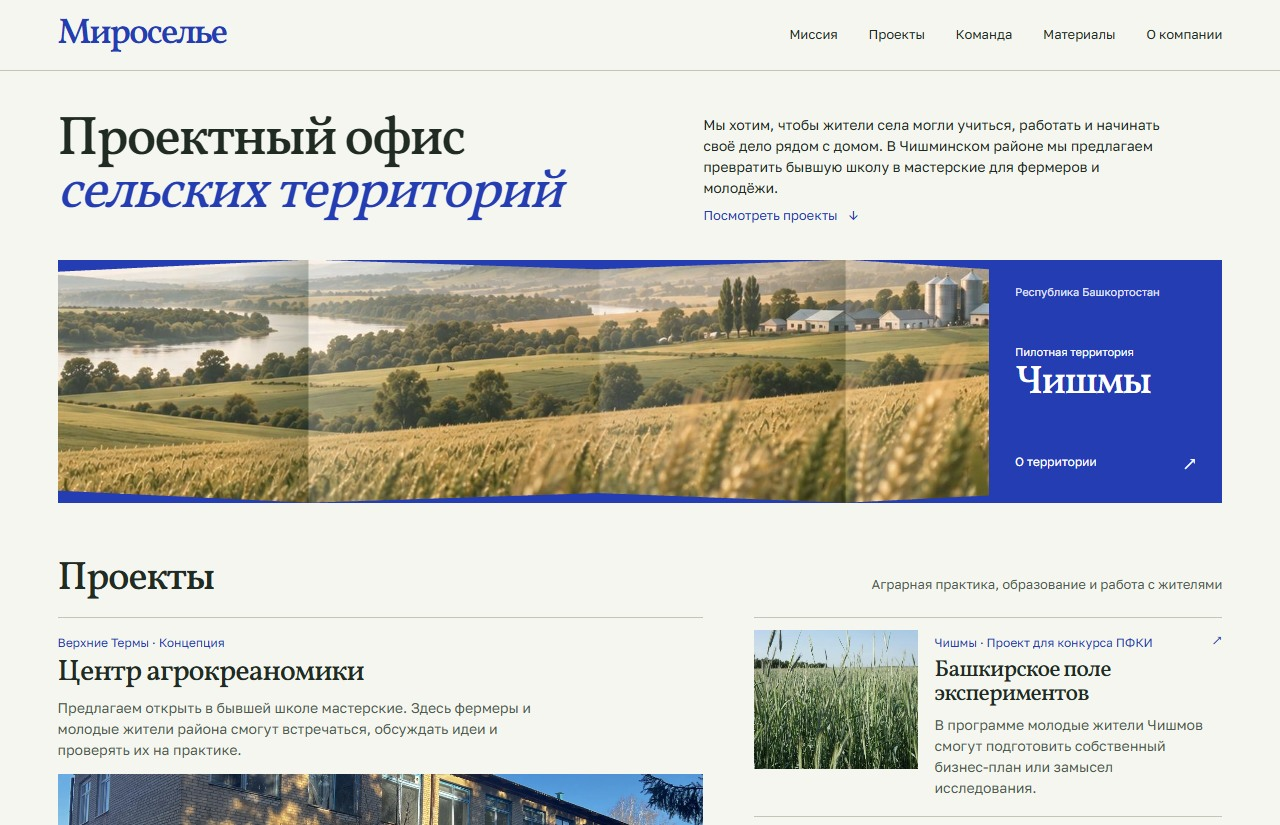
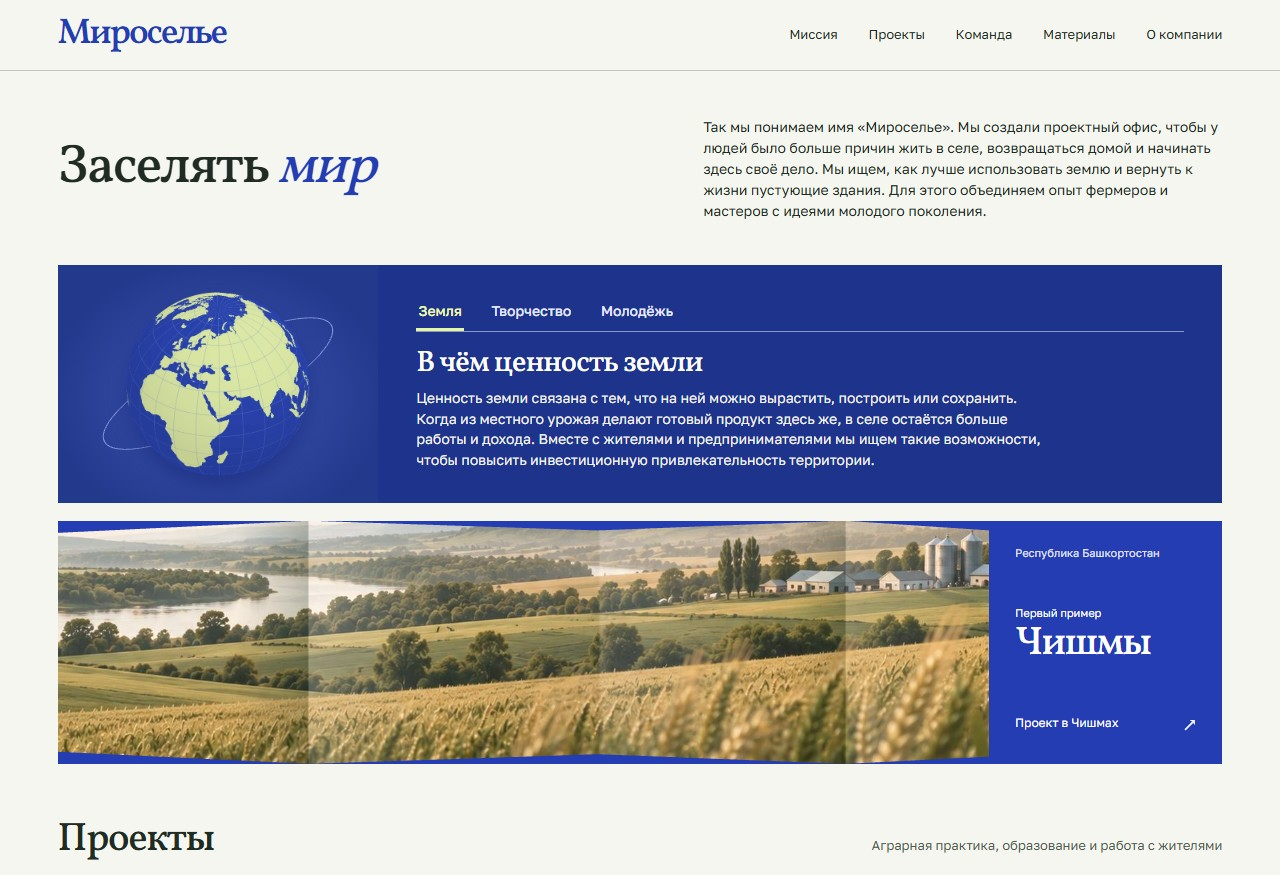
Миссия Мироселья, методика Урбаншколы и проект Живые улицы

diff --git a/index.html b/index.html
@@ -6,12 +6,14 @@
   <meta name="theme-color" content="#f6f7f2">
   <title>Мироселье · Проектный офис сельских территорий Башкортостана</title>
   <link rel="stylesheet" href="design/atlas-office.css">
-  <meta name="description" content="ООО «Мироселье» разрабатывает проекты для сельских территорий Башкортостана. Центр агрокреаномики в Верхних Термах, молодёжная программа в Чишмах и Урбаншкола.">
+  <link rel="stylesheet" href="mission.css">
+  <script defer src="mission.js"></script>
+  <meta name="description" content="Миссия «Мироселья» — заселять мир. Развитие сельских территорий через новые возможности для земли, креативные индустрии и работу с молодым поколением.">
   <link rel="canonical" href="https://lignatus.github.io/miroselye/">
   <meta property="og:type" content="website">
   <meta property="og:locale" content="ru_RU">
   <meta property="og:title" content="Мироселье · Проектный офис сельских территорий">
-  <meta property="og:description" content="Сельские территории Башкортостана. Идеи, люди и проекты Чишминского района.">
+  <meta property="og:description" content="Сельские территории, творческие профессии и новое поколение местных авторов. Проекты в Башкортостане.">
   <meta property="og:image" content="https://lignatus.github.io/miroselye/design/fields-sunset.webp">
   <script>
     function openPreviousSection() {
@@ -34,17 +36,29 @@
   </header>
   <main>
     <section class="cover" id="mission" aria-labelledby="mission-title">
-      <div class="cover-copy">
-        <h1 id="mission-title">Проектный офис<br><em>сельских территорий</em></h1>
-        <p>Мы хотим, чтобы жители села могли учиться, работать и начинать своё дело рядом с домом. В Чишминском районе мы предлагаем превратить бывшую школу в мастерские для фермеров и молодёжи.</p>
-        <a class="action" href="#projects">Посмотреть проекты <span aria-hidden="true">↓</span></a>
+      <div class="cover-copy mission-heading">
+        <h1 id="mission-title">Заселять <em>мир</em></h1>
+        <p>Так мы понимаем имя «Мироселье». Мы создали проектный офис, чтобы у людей было больше причин жить в селе, возвращаться домой и начинать здесь своё дело. Мы ищем, как лучше использовать землю и вернуть к жизни пустующие здания. Для этого объединяем опыт фермеров и мастеров с идеями молодого поколения.</p>
+      </div>
+      <div class="mission-atlas" data-mission>
+        <div class="mission-globe" aria-hidden="true"><img src="assets/mission-earth.webp" width="480" height="480" alt=""><span class="orbit"></span></div>
+        <div class="mission-leaves">
+          <div class="mission-choices" hidden aria-label="Подход Мироселья">
+            <button id="tab-earth" aria-controls="leaf-earth" type="button">Земля</button>
+            <button id="tab-craft" aria-controls="leaf-craft" type="button">Творчество</button>
+            <button id="tab-youth" aria-controls="leaf-youth" type="button">Молодёжь</button>
+          </div>
+          <article id="leaf-earth" data-globe="earth"><h2>В чём ценность земли</h2><p>Ценность земли связана с тем, что на ней можно вырастить, построить или сохранить. Когда из местного урожая делают готовый продукт здесь же, в селе остаётся больше работы и дохода. Вместе с жителями и предпринимателями мы ищем такие возможности, чтобы повысить инвестиционную привлекательность территории.</p></article>
+          <article id="leaf-craft" data-globe="craft"><h2>Креативные индустрии на селе</h2><p>У фермера есть продукт и знание своей земли. Дизайнер может помочь ему представить этот продукт покупателям, а ремесленник придумать, что сделать из местного сырья. Так к сельскому хозяйству добавляются новые профессии, у людей появляется больше способов зарабатывать дома.</p></article>
+          <article id="leaf-youth" data-globe="youth"><h2>Как найти своё дело рядом с домом</h2><p>Работая с молодёжью, мы начинаем с того, что ребятам интересно самим. Они могут начертить карту посёлка, предложить идею для хозяйства, обсудить её с фермером и посчитать затраты. Такой опыт помогает понять, где в родном районе пригодятся их способности.</p></article>
+        </div>
       </div>
       <figure class="land">
         <div class="foldout">
           <img src="design/fields-panorama.webp" alt="Панорама полей и реки из концепции пилотной территории Чишминского района" width="1672" height="341" fetchpriority="high">
           <span class="folds" aria-hidden="true"></span>
         </div>
-        <figcaption><span>Республика Башкортостан</span><div><small>Пилотная территория</small><b>Чишмы</b></div><a href="territory.html">О территории <span aria-hidden="true">↗</span></a></figcaption>
+        <figcaption><span>Республика Башкортостан</span><div><small>Первый пример</small><b>Чишмы</b></div><a href="territory.html">Проект в Чишмах <span aria-hidden="true">↗</span></a></figcaption>
       </figure>
     </section>
     <section id="projects" class="projects page-section">
@@ -62,7 +76,8 @@
         </article>
         <div class="sibling-projects">
           <a class="project side-project" href="program.html"><img src="assets/field.webp" alt=""><div class="project-info"><span>Чишмы · Проект для конкурса ПФКИ</span><h3>Башкирское поле экспериментов</h3><p>В программе молодые жители Чишмов смогут подготовить собственный бизнес-план или замысел исследования.</p><i aria-hidden="true">↗</i></div></a>
-          <a class="project side-project" href="urbanschool.html"><img src="assets/urban-game.webp" alt=""><div class="project-info"><span>Уфа · Практика в лицее № 136</span><h3>Урбаншкола</h3><p>Семиклассники уфимского лицея обсудили застройку Сипайлово в формате городских слушаний.</p><i aria-hidden="true">↗</i></div></a>
+          <a class="project side-project urban-method-card" href="urbanschool.html"><img src="assets/urban-method-tile.webp" alt="Урбаншкола Уфа"><div class="project-info"><span>Уфа · Методика развития пространственного мышления</span><h3>Урбаншкола</h3><p>Школьники рисуют карты по памяти, сравнивают маршруты и обсуждают, как меняется знакомое место.</p><i aria-hidden="true">↗</i></div></a>
+          <a class="project side-project" href="living-streets.html"><img src="assets/streets-barn.webp" alt="Общественный амбар в концепции посёлка"><div class="project-info"><span>Кушнаренковский район · Предварительная концепция</span><h3>Живые улицы</h3><p>Концепция ремесленного посёлка. Дом и мастерская выходят на одну улицу, а в общем амбаре можно проводить ярмарки.</p><i aria-hidden="true">↗</i></div></a>
         </div>
       </div>
     </section>
@@ -73,22 +88,12 @@
         <article><h3>Куратор программ</h3><p>Готовит занятия и приглашает наставников для молодёжных команд.</p></article>
       </div>
     </section>
-    <section id="library" class="library page-section">
-      <div><h2>Материалы</h2><p>Концепция территории и документы молодёжной программы.</p></div>
-      <div class="files">
-        <a href="materials/koncepcia.pdf"><span class="book"><img src="assets/covers/koncepcia.webp" alt=""></span><strong>Пилотная территория «Чишмы»</strong><small>Концепция · PDF ↗</small></a>
-        <a href="materials/annotation.pdf"><span class="book"><img src="assets/covers/annotation.webp" alt=""></span><strong>Программа на одной странице</strong><small>Аннотация · PDF ↗</small></a>
-        <a href="materials/presentation.pdf"><span class="book"><img src="assets/covers/presentation.webp" alt=""></span><strong>Башкирское поле экспериментов</strong><small>Презентация · PDF ↗</small></a>
-        <a href="materials/programma.pdf"><span class="book"><img src="assets/covers/programma.webp" alt=""></span><strong>Полное описание программы</strong><small>Проект · PDF ↗</small></a>
-      </div>
+    <section id="library" class="library page-section method-library">
+      <div class="method-heading"><h2>Методические материалы</h2><p>Как устроена молодёжная программа по агрокреаномике</p></div>
+      <a class="method-document" href="materials/presentation.pdf"><img src="assets/covers/presentation.webp" alt="Обложка презентации «Башкирское поле экспериментов»"><div><span>Презентация программы · PDF</span><h3>Башкирское поле экспериментов</h3><p>От знакомства с аграрной наукой и хозяйствами района до собственного бизнес-плана или замысла исследования.</p><strong>Открыть презентацию ↗</strong></div></a>
     </section>
     <section id="company" class="company page-section"><div><h2>О компании</h2><p>Реквизиты ООО «Мироселье»</p></div><dl><div><dt>Наименование</dt><dd>ООО «Мироселье»</dd></div><div><dt>ИНН</dt><dd>0276185285</dd></div><div><dt>ОГРН</dt><dd>1250200037230</dd></div><div><dt>Электронная почта</dt><dd><a href="mailto:miroselye@mail.ru">miroselye@mail.ru</a></dd></div></dl></section>
   </main>
   <footer><a class="wordmark" href="#top">Мироселье</a><a href="mailto:miroselye@mail.ru">Написать в проектный офис ↗</a></footer>
 </body>
 </html>
-
-
-
-
-

diff --git a/urbanschool.html b/urbanschool.html
@@ -10,7 +10,7 @@
 
   <meta name="theme-color" content="#f6f4e9">
 
-  <title>Урбаншкола | Мироселье</title>
+  <title>Урбаншкола · Методика развития пространственного мышления | Мироселье</title>
 
   <link rel="stylesheet" href="site.css"><link rel="stylesheet" href="land.css">
 
@@ -35,10 +35,11 @@
     </div>
   </header>
 
-  <main id="main"><div class="wrap"><a class="crumb" href="index.html#projects">← Проекты</a><section class="urban-head"><div><h1>Урбаншкола</h1><p>Как договориться о будущем места, если у каждого на него свои планы?</p></div><figure><img src="assets/urban-game.webp" alt="Игровое поле с рекой Белой, старой фабрикой, деревянным домом и липовой рощей"><figcaption>Учебная игра «Квартал у Белой»</figcaption></figure></section><section class="spread"><h2>Территория глазами жителей</h2><div><p class="standfirst">Урбаншкола учит читать карту, наблюдать за привычным местом и обсуждать, что в нём стоит изменить.</p><p>Например, ребята рисуют район по памяти. Затем сравнивают карты и ищут три места, которые заметили почти все, и три места, которые запомнились только одному человеку.</p><p>В уфимской адаптации курса три темы. Ребята сначала исследуют пространство вокруг себя, затем выясняют, кто пользуется общими местами и отвечает за них. Наконец пробуют договориться о будущем целого квартала.</p></div></section><section class="spread"><h2>Квартал у Белой</h2><div><p>На игровом поле рядом с рекой стоят старая фабрика и деревянный дом, растёт липовая роща. Команда выбирает, где разместить жильё и что оставить свободным. Участок у проспекта шумный, а берегом пользуются все. Каждое решение приходится объяснять с учётом этих условий.</p><p>В другой игре участники проводят слушания о будущем кинотеатра «Курай». Они представляют разные интересы и записывают условия, на которых готовы договориться.</p></div></section><section class="spread"><h2>Слушания в уфимском лицее</h2><div><p class="standfirst">Команда «Мироселья» провела деловую игру для семиклассников Башкирского лицея № 136 имени М. Искужина в Уфе.</p><p>В рамках «Школы юного предпринимателя» ребята обсуждали застройку Сипайлово. Занятие прошло в формате городских слушаний.</p><p><a href="https://vk.ru/wall-22432886_1956">Публикация лицея ↗</a></p></div></section><section class="spread"><h2>Из города в село</h2><div><p>Эти вопросы важны и для Верхних Терм. Кто будет приходить в мастерские? Как жители пользуются двором бывшей школы сегодня? Что стоит сохранить, если у здания появится новая жизнь? С такого разговора можно начинать работу над сельской территорией.</p><p><a href="territory.html">Посмотреть концепцию центра в Верхних Термах ↗</a></p></div></section></div></main><footer class="atlas-footer"><div class="wrap"><a href="index.html" class="atlas-wordmark">Мироселье</a><a href="index.html#projects">Все проекты ↗</a><a href="#top">Наверх ↑</a></div></footer>
+  <main id="main"><div class="wrap"><a class="crumb" href="index.html#projects">← Проекты</a><section class="urban-head"><div><h1>Урбаншкола</h1><p>Методика развития пространственного мышления для школьников от 9 до 17 лет.</p></div><figure><img src="assets/urban-method.webp" width="1040" height="510" style="height:auto" alt="Надпись «Урбаншкола Уфа» и пиктограммы с обложки курса"></figure></section><section class="spread"><h2>Территория глазами жителей</h2><div><p class="standfirst">Урбаншкола учит видеть, как устроен знакомый район. На занятиях ребята восстанавливают по памяти свои маршруты, находят ориентиры и выясняют, что в одном и том же дворе важно разным людям.</p><p>Например, ребята рисуют район по памяти. Затем сравнивают карты и ищут три места, которые заметили почти все, и три места, которые запомнились только одному человеку.</p><p>Уфимский курс создан по мотивам венской методики «Was schafft Raum?». В нём 31 занятие и две учебные игры. Ребята сначала исследуют пространство вокруг себя, затем выясняют, кто пользуется общими местами и отвечает за них. На заключительных занятиях они обсуждают, как жители участвуют в решениях о будущем района.</p></div></section><section class="spread"><h2>Слушания в уфимском лицее</h2><div><p class="standfirst">Команда «Мироселья» провела деловую игру для семиклассников Башкирского лицея № 136 имени М. Искужина в Уфе.</p><p>В рамках «Школы юного предпринимателя» ребята обсуждали застройку Сипайлово. Занятие прошло в формате городских слушаний.</p><p><a href="https://vk.ru/wall-22432886_1956">Публикация лицея ↗</a></p></div></section><section class="spread"><h2>Из города в село</h2><div><p>Эти вопросы важны и для Верхних Терм. Кто будет приходить в мастерские? Как жители пользуются двором бывшей школы сегодня? Что стоит сохранить, если у здания появится новая жизнь? С такого разговора можно начинать работу над сельской территорией.</p><p><a href="territory.html">Посмотреть концепцию центра в Верхних Термах ↗</a></p></div></section></div></main><footer class="atlas-footer"><div class="wrap"><a href="index.html" class="atlas-wordmark">Мироселье</a><a href="index.html#projects">Все проекты ↗</a><a href="#top">Наверх ↑</a></div></footer>
 
 </body>
 
 </html>
+
 
 

diff --git a/living-streets.html b/living-streets.html
@@ -1,0 +1,73 @@
+<!doctype html>
+
+<html lang="ru">
+
+<head>
+
+  <meta charset="utf-8">
+
+  <meta name="viewport" content="width=device-width, initial-scale=1">
+
+  <meta name="theme-color" content="#f6f4e9">
+
+  <title>Живые улицы · Ремесленный посёлок | Мироселье</title>
+
+  <link rel="stylesheet" href="site.css">
+
+  <link rel="stylesheet" href="atlas-interior.css">
+
+</head>
+
+<body id="top">
+
+  <a class="skip" href="#main">К содержанию</a>
+
+  <header class="atlas-header">
+    <div class="atlas-header-inner">
+      <a class="atlas-wordmark" href="index.html" aria-label="Мироселье, на главную">Мироселье</a>
+      <nav aria-label="Разделы проектного офиса">
+        <a href="index.html#mission">Миссия</a>
+        <a href="index.html#projects">Проекты</a>
+        <a href="index.html#team">Команда</a>
+        <a href="index.html#library">Материалы</a>
+        <a href="index.html#company">О компании</a>
+      </nav>
+    </div>
+  </header>
+
+  <main id="main" class="article wrap">
+  <a class="crumb" href="index.html#projects">← Все проекты</a>
+  <header class="article-head">
+    <div class="atlas-intro-copy">
+      <h1>Живые улицы</h1>
+      <p>«Мироселье» предлагает создать в Кушнаренковском районе Башкортостана ремесленный посёлок. В предварительном мастер-плане 2026 года дома соседствуют с мастерскими, а площадь и общественный амбар образуют центр посёлка.</p>
+      <span class="stamp">Старокамышлинский сельсовет · Предварительная концепция</span>
+    </div>
+    <img class="atlas-intro-image" src="assets/streets-barn.webp" alt="Проектный эскиз деревянного амбара с торговыми рядами и террасой" width="1320" height="985">
+  </header>
+  <section class="spread">
+    <h2>Место для своего дела</h2>
+    <div><p class="standfirst">Посёлок задуман вокруг ремесленной улицы. Здесь мастер может работать рядом с домом, показать, как сделана вещь, и продать её гостям.</p>
+    <p>Для посёлка предложены жилая слобода, ремесленные и гостевые ряды. Их связывают пешеходные маршруты между сквером, площадью и амбаром. По выходным часть территории может стать местом для рынка, где жители представят свою продукцию.</p></div>
+  </section>
+  <section class="gallery-section">
+    <h2>Как устроен посёлок</h2>
+    <p class="gallery-intro">На плане между Ильмурзино и Старыми Камышлами предусмотрены жилые улицы, общественный сад и прогулочные дорожки у воды. Среди вариантов застройки есть небольшие дома с отдельным входом со стороны ремесленной улицы.</p>
+    <div class="photos">
+      <figure><img src="assets/streets-plan.webp" alt="План жилых улиц, пешеходных дорожек и зелёной зоны вокруг водоёма" loading="lazy" width="1024" height="1024" style="height:auto;aspect-ratio:auto;object-fit:contain"><figcaption>Проектное предложение по планировке посёлка</figcaption></figure>
+      <figure><img src="assets/streets-workshop.webp" alt="Объём с двускатной кровлей и крытой площадкой перед входом" loading="lazy" width="1010" height="673" style="height:auto;aspect-ratio:auto"><figcaption>Один из вариантов застройки ремесленной улицы</figcaption></figure>
+    </div>
+  </section>
+  <section class="spread">
+    <h2>Общий амбар</h2>
+    <div><p class="standfirst">Главным местом встречи авторы предлагают сделать амбар. В центре ремесленного посёлка это общественное здание с площадью перед входом.</p><p>В тёплое время события смогут выходить из здания на площадь. Поблизости предусмотрены мини-рынок, амфитеатр и места отдыха. Вместе они дают посёлку возможность принимать гостей и оставляют жителям пространство для повседневной жизни.</p><p>Иллюстрации из предварительной концепции мастер-плана ООО «Мироселье», 2026 год.</p></div>
+  </section>
+  <div class="back-row"><a class="back-link" href="index.html#projects">← Все проекты</a></div>
+</main>
+<footer class="atlas-footer"><div class="wrap"><a href="index.html" class="atlas-wordmark">Мироселье</a><a href="index.html#projects">Все проекты ↗</a><a href="#top">Наверх ↑</a></div></footer>
+
+</body>
+
+</html>
+
+

diff --git a/mission.css b/mission.css
@@ -1,0 +1,49 @@
+/* A leaf in the atlas pairs a globe with the three parts of the mission. */
+.mission-heading { align-items:center; padding-block:clamp(25px,3.5vw,52px); }
+.mission-heading h1 { grid-row:auto; }
+.mission-heading p { max-width:62ch; }
+.mission-atlas { display:grid; grid-template-columns:minmax(175px,.55fr) minmax(0,1.45fr); color:#f9faee; background:#1e348c; margin-bottom:18px; overflow:hidden; }
+.mission-globe { display:grid; place-items:center; position:relative; isolation:isolate; padding:18px; overflow:hidden; background:radial-gradient(ellipse at 50% 55%,#4056b5,#23398c 75%); }
+.mission-globe img { width:clamp(156px,15vw,235px); height:auto; z-index:1; filter:drop-shadow(0 10px 10px #0d206c70); }
+.orbit { position:absolute; width:80%; max-width:320px; height:30%; border:1px solid #8294dd; border-radius:50%; transform:rotate(-27deg); }
+.mission-leaves { padding:clamp(20px,2.5vw,36px) clamp(20px,3vw,50px); align-self:center; min-width:0; }
+.mission-choices { display:flex; flex-wrap:wrap; align-items:center; column-gap:clamp(14px,2vw,28px); border-bottom:1px solid #8997c8; margin-bottom:17px; }
+.mission-choices[hidden],.mission-leaves article[hidden] { display:none; }
+.mission-choices button { appearance:none; border:0; border-bottom:3px solid transparent; border-radius:0; background:none; padding:5px 2px 8px; color:#e6ebff; font:500 14px/1.25 var(--sans); cursor:pointer; }
+.mission-choices button[aria-selected=true] { color:#efffad; border-color:#e3f7a4; }
+.mission-choices button:hover { text-decoration:underline; text-underline-offset:4px; }
+.mission-atlas :focus-visible { outline:2px solid #efffad; outline-offset:3px; }
+.mission-leaves h2 { color:#fffef7; font-size:clamp(23px,2.3vw,34px); letter-spacing:-.025em; margin:0 0 8px; }
+.mission-leaves p { max-width:74ch; color:#f3f4ed; font-size:clamp(14px,1.09vw,16px); line-height:1.48; }
+.mission-leaves article + article { margin-top:16px; }
+.mission-atlas[data-ready] article { margin-top:0; }
+.mission-atlas[data-ready] .mission-leaves { touch-action:pan-y; }
+.urban-method-card img { object-fit:contain; background:#f6d550; }
+.method-library { display:grid; grid-template-columns:minmax(200px,.85fr) minmax(0,1.6fr); gap:clamp(22px,5vw,84px); align-items:center; }
+.library .method-heading { display:block; margin:0; }
+.library .method-heading p { margin-top:10px; color:#e9ecfa; max-width:34ch; }
+.method-document { display:grid; grid-template-columns:minmax(120px,.68fr) minmax(0,1fr); gap:clamp(16px,2.3vw,32px); align-items:center; color:white; }
+.method-document img { width:100%; box-shadow:4px 6px 0 #142777; }
+.method-document span { color:#e7ebf7; font-size:12px; }
+.method-document h3 { font-size:clamp(21px,2.2vw,32px); margin:7px 0; }
+.method-document p { font-size:14px; max-width:48ch; }
+.method-document strong { display:inline-block; margin-top:12px; font-weight:500; font-size:13px; text-decoration:underline; text-underline-offset:4px; }
+.method-document:hover { text-decoration:none; }.method-document:hover strong { text-decoration-thickness:2px; }
+@media(max-width:760px) { .method-library { grid-template-columns:1fr; }.method-document { grid-template-columns:minmax(110px,.6fr) 1fr; }.mission-atlas{grid-template-columns:24% 1fr}.mission-globe{padding:4px}.mission-globe img{width:100%} }
+@media(max-width:560px) {
+ .mission-heading p { margin-bottom:0; }
+ .mission-atlas { position:relative; display:block; margin-bottom:14px; }
+ .mission-globe { position:absolute; z-index:0; top:5px; right:4px; width:61px; height:61px; background:none; padding:0; }
+ .mission-globe .orbit { width:95%; }.mission-globe img { width:55px; filter:none; }
+ .mission-leaves { position:relative; padding:15px; }
+ .mission-choices { margin-right:52px; column-gap:10px; margin-bottom:15px; }
+ .mission-choices button { font-size:12px; min-height:36px; padding-inline:0; }
+ .mission-leaves h2 { max-width:90%; font-size:24px; }.mission-leaves p { font-size:14px; }
+ .method-document { grid-template-columns:minmax(95px, .75fr) 1.25fr; gap:14px; }.method-document p {font-size:13px}.method-document h3{font-size:20px;}
+}
+@media(prefers-reduced-motion:no-preference) {
+ .mission-leaves article.show-leaf { animation:open-leaf .22s ease-out; }
+ .mission-globe img.turn { animation:turn-leaf .32s ease-out; }
+ @keyframes open-leaf { from{opacity:.65;transform:translateX(4px)} to{opacity:1;transform:translateX(0)} }
+ @keyframes turn-leaf { from{transform:rotate(-5deg)} to{transform:rotate(0)} }
+}

diff --git a/mission.js b/mission.js
@@ -1,0 +1,55 @@
+// Atlas outlines derived from the public-domain Natural Earth 1:110m land dataset.
+const atlas = document.querySelector('[data-mission]');
+if (atlas) {
+  const list = atlas.querySelector('.mission-choices');
+  const tabs = [...list.querySelectorAll('button')];
+  const pages = tabs.map(tab => document.getElementById(tab.getAttribute('aria-controls')));
+  const globe = atlas.querySelector('.mission-globe img');
+  let selected = 0;
+  function selectPage(index, moveFocus = false) {
+    selected = (index + tabs.length) % tabs.length;
+    tabs.forEach((tab, i) => {
+      const active = i === selected;
+      tab.tabIndex = active ? 0 : -1;
+      tab.setAttribute('aria-selected', String(active));
+      pages[i].hidden = !active;
+      pages[i].classList.toggle('show-leaf', active);
+    });
+    const nextImage = 'assets/mission-' + pages[selected].dataset.globe + '.webp';
+    if (globe.getAttribute('src') !== nextImage) {
+      globe.src = nextImage;
+      globe.classList.remove('turn');
+      requestAnimationFrame(() => globe.classList.add('turn'));
+    }
+    if (moveFocus) tabs[selected].focus();
+  }
+  list.setAttribute('role', 'tablist');
+  tabs.forEach((tab, i) => {
+    tab.setAttribute('role', 'tab');
+    pages[i].setAttribute('role','tabpanel');
+    pages[i].setAttribute('aria-labelledby',tab.id);
+    pages[i].tabIndex = 0;
+    tab.addEventListener('click', () => selectPage(i));
+    tab.addEventListener('keydown', e => {
+      const index = {ArrowLeft: i - 1, ArrowRight: i + 1, Home: 0, End: tabs.length - 1}[e.key];
+      if (index === undefined) return;
+      e.preventDefault();
+      selectPage(index, true);
+    });
+  });
+  let pointer = null;
+  const leaves = atlas.querySelector('.mission-leaves');
+  leaves.addEventListener('pointerdown', e => {
+    if (e.pointerType === 'touch' && !e.target.closest('button')) pointer = {id:e.pointerId, x:e.clientX, y:e.clientY};
+  });
+  leaves.addEventListener('pointercancel', () => { pointer = null; });
+  leaves.addEventListener('pointerup', e => {
+    if (!pointer || pointer.id !== e.pointerId) return;
+    const dx = e.clientX - pointer.x, dy = e.clientY - pointer.y;
+    pointer = null;
+    if (Math.abs(dx) > 52 && Math.abs(dx) > Math.abs(dy) * 1.5) selectPage(selected + (dx < 0 ? 1 : -1));
+  });
+  atlas.dataset.ready = '';
+  selectPage(0);
+  list.hidden = false;
+}
